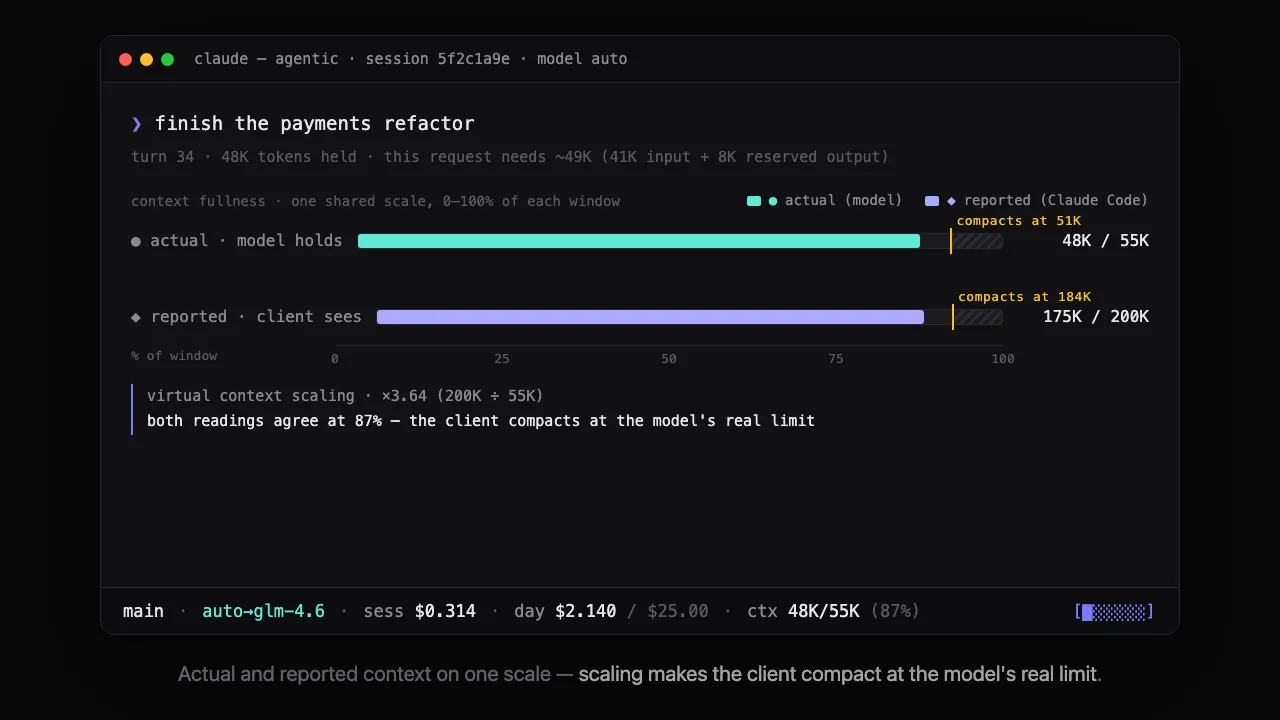
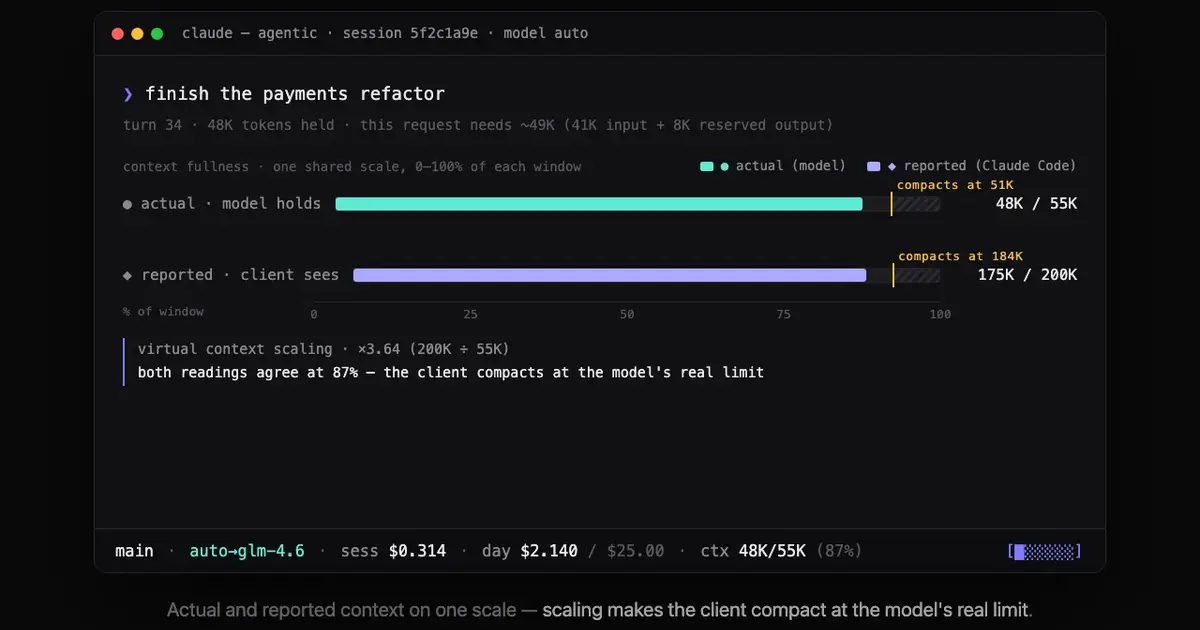
Fix SEO: unify canonical host, absolute OG images, structured data
- canonical/robots/sitemap all point to runagentic.dev instead of a
  mix of the GitHub repo and the old maorbril.github.io Pages host
- og:image / twitter:image now absolute URLs (relative URLs are
  dropped by Slack, X, Discord, iMessage link previews)
- re-export hero poster to the standard 1200x630 OG card size
  (was 1280x720)
- add url/codeRepository/license to the JSON-LD SoftwareApplication
  block, add twitter:site now that we have a handle

diff --git a/public/index.html b/public/index.html
@@ -8,26 +8,34 @@
       name="description"
       content="agentic wraps Claude Code in a thin local router. Same TUI, same tools — Anthropic runs byte-faithful passthrough, and OpenAI, xAI, and any OpenAI-compatible endpoint work through request/stream translation. Every token metered, routed by size, and checked against a budget. Sessions can now find and message each other by name."
     />
-    <link rel="canonical" href="https://github.com/maorbril/agentic" />
+    <link rel="canonical" href="https://runagentic.dev/" />
 
     <!-- Open Graph / Twitter -->
     <meta property="og:type" content="website" />
+    <meta property="og:url" content="https://runagentic.dev/" />
     <meta
       property="og:title"
       content="agentic — Claude Code on any model, with a budget"
     />
     <meta
       property="og:description"
-      content="Same Claude Code TUI. Any model behind it. Every token metered and budgeted."
+      content="Run Claude Code on Anthropic, OpenAI, xAI, Ollama, or any OpenAI-compatible endpoint. Every token priced. Hard daily, weekly, and monthly budget stops."
     />
-    <meta property="og:image" content="hero-context-v2-poster.webp" />
+    <meta
+      property="og:image"
+      content="https://runagentic.dev/hero-context-v2-poster.webp"
+    />
     <meta name="twitter:card" content="summary_large_image" />
+    <meta name="twitter:site" content="@MaorBril" />
     <meta name="twitter:title" content="agentic — Claude Code on any model" />
     <meta
       name="twitter:description"
-      content="Same Claude Code TUI. Any model. Metered and budgeted."
+      content="Every token priced. Hard budget stops. The cheapest model that fits each turn. Claude Code stays unmodified."
     />
-    <meta name="twitter:image" content="hero-context-v2-poster.webp" />
+    <meta
+      name="twitter:image"
+      content="https://runagentic.dev/hero-context-v2-poster.webp"
+    />
 
     <link rel="preconnect" href="https://fonts.googleapis.com" />
     <link rel="preconnect" href="https://fonts.gstatic.com" crossorigin />
@@ -46,10 +54,13 @@
         "@context": "https://schema.org",
         "@type": "SoftwareApplication",
         "name": "agentic",
+        "url": "https://runagentic.dev/",
         "applicationCategory": "DeveloperApplication",
-        "operatingSystem": "macOS, Linux, Windows",
-        "description": "Run Claude Code on any model, with a budget. A thin local router that meters every token and enforces spend caps.",
-        "offers": { "@type": "Offer", "price": "0", "priceCurrency": "USD" }
+        "operatingSystem": "macOS, Linux",
+        "offers": { "@type": "Offer", "price": "0", "priceCurrency": "USD" },
+        "description": "Run Claude Code on any model, with a budget. Multi-provider router, cost tracking, and hard spend caps for Claude Code.",
+        "codeRepository": "https://github.com/maorbril/agentic",
+        "license": "https://opensource.org/licenses/MIT"
       }
     </script>
   </head>
